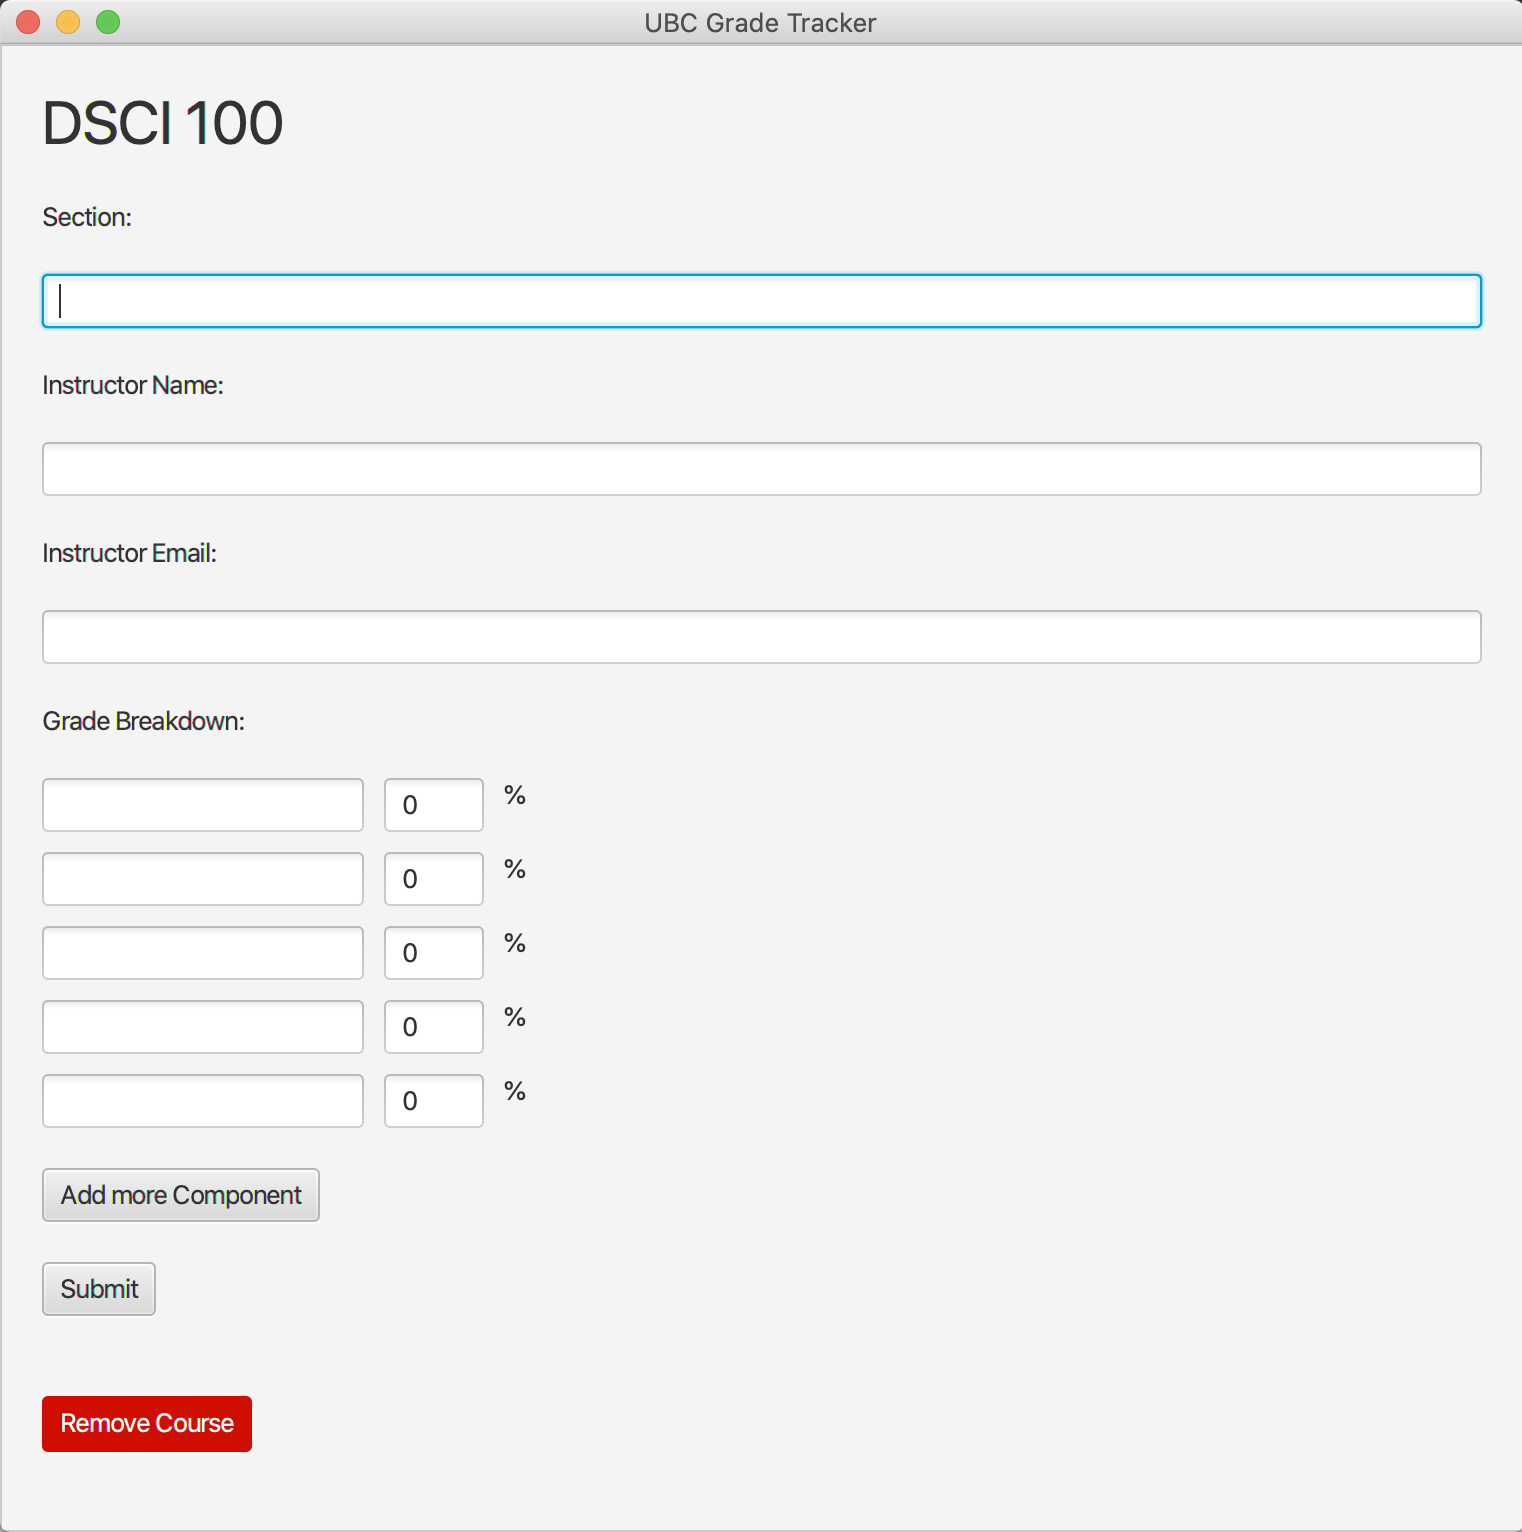
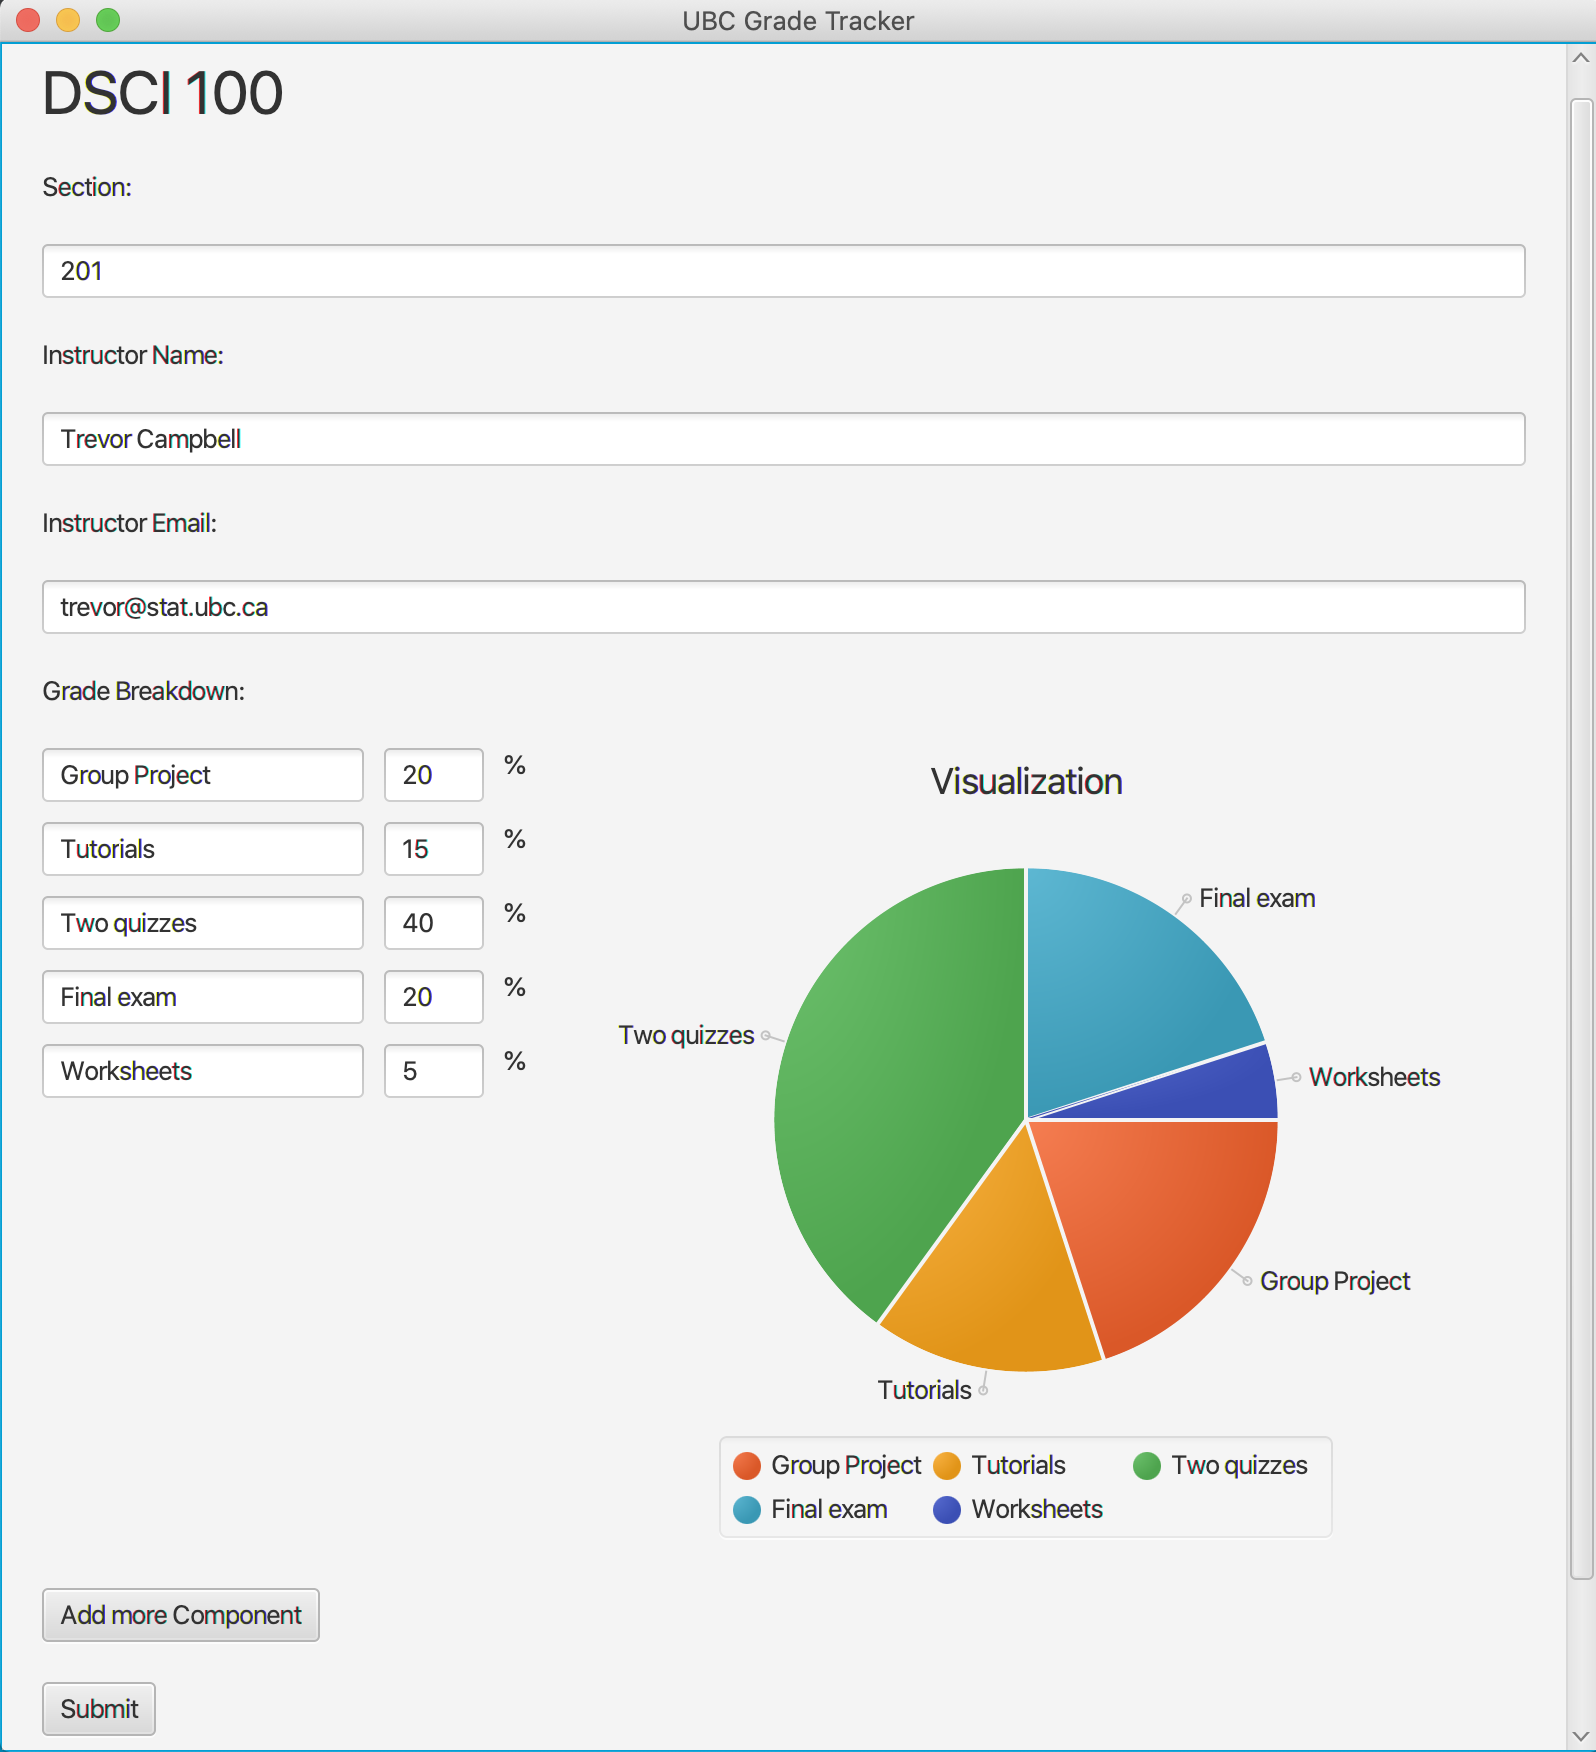
Add visualization and fix styles

diff --git a/src/main/ui/GradeTrackerUI.java b/src/main/ui/GradeTrackerUI.java
@@ -4,8 +4,10 @@ import javafx.collections.FXCollections;
 import javafx.collections.ObservableList;
 import javafx.geometry.Insets;
 import javafx.geometry.Pos;
+import javafx.geometry.Side;
 import javafx.scene.Node;
 import javafx.scene.Scene;
+import javafx.scene.chart.PieChart;
 import javafx.scene.control.*;
 import javafx.scene.control.cell.PropertyValueFactory;
 import javafx.scene.layout.*;
@@ -79,10 +81,10 @@ public class GradeTrackerUI {
     private void init(Scene scene) {
         primaryStage.setScene(scene);
         primaryStage.setTitle(APP_NAME);
-        primaryStage.setMinWidth(700);
-        primaryStage.setMinHeight(500);
-        primaryStage.setWidth(700);
-        primaryStage.setHeight(500);
+        primaryStage.setMinWidth(800);
+        primaryStage.setMinHeight(700);
+        primaryStage.setWidth(800);
+        primaryStage.setHeight(700);
         primaryStage.show();
     }
 
@@ -114,7 +116,7 @@ public class GradeTrackerUI {
         Button toSessionSceneButton = createInfoSubmitButton(nextScene);
 
         vbox.getChildren().addAll(nameBox, studentIdBox, csIdBox, emailBox, phoneBox, gpaBox, toSessionSceneButton);
-        vbox.setSpacing(20);
+        vbox.setSpacing(40);
         vbox.setPadding(new Insets(20));
 
         return new Scene(vbox);
@@ -126,6 +128,7 @@ public class GradeTrackerUI {
         VBox.setVgrow(list, Priority.ALWAYS);
 
         Label addCourseLabel = new Label("Courses: ");
+        addCourseLabel.setFont(new Font(25));
         courseTextFieldContainer = createTextFieldsContainer();
 
         Button addCourseButton = createAddCourseButton();
@@ -141,7 +144,7 @@ public class GradeTrackerUI {
                 buttonContainer
         );
 
-        vbox.setSpacing(20);
+        vbox.setSpacing(30);
         vbox.setPadding(new Insets(20));
 
         ScrollPane scrollPane = new ScrollPane(vbox);
@@ -171,13 +174,12 @@ public class GradeTrackerUI {
         Button addComponentButton = createCourseInfoAddButton();
         Button removeCourseButton = createRemoveCourseButton(course);
 
+        HBox hbox = new HBox(courseComponentContainer, createPieChart(course));
         VBox vbox = new VBox();
         vbox.getChildren().addAll(
                 courseLabel, sectionLabel, sectionInput, instructorNameLabel,
                 instructorNameInput, instructorEmailLabel, instructorEmailInput, gradeBreakdownLabel,
-                courseComponentContainer, addComponentButton, toDashboardButton,
-                EMPTY_BOX, removeCourseButton
-                // Add an empty space between the remove button with the rest
+                hbox, addComponentButton, toDashboardButton, EMPTY_BOX, removeCourseButton
         );
         vbox.setSpacing(20);
         vbox.setPadding(new Insets(20));
@@ -421,9 +423,9 @@ public class GradeTrackerUI {
         courseComponentContainer = new VBox();
         courseComponentContainer.setSpacing(10);
 
-        for (CourseComponent cp : course.getComponents()) {
-            TextField componentInput = new TextField(cp.getName());
-            TextField percentageInput = new TextField(cp.getPercentage() + "");
+        for (Map.Entry<String, Integer> component : course.getComponents().entrySet()) {
+            TextField componentInput = new TextField(component.getKey());
+            TextField percentageInput = new TextField(component.getValue().toString());
             percentageInput.setPrefWidth(50);
             HBox hbox = new HBox(componentInput, percentageInput, new Label("%"));
             hbox.setSpacing(10);
@@ -479,8 +481,27 @@ public class GradeTrackerUI {
         return toDashboardButton;
     }
 
+    private AnchorPane createPieChart(Course course) {
+        ObservableList<PieChart.Data> pieChartData = FXCollections.observableArrayList();
+        for (Map.Entry<String, Integer> component : course.getComponents().entrySet()) {
+            if (!component.getKey().isEmpty() && component.getValue() != 0) {
+                pieChartData.add(new PieChart.Data(component.getKey(), component.getValue()));
+            }
+        }
+//        pieChartData.sorted();
+        PieChart chart = new PieChart(pieChartData);
+        chart.setTitle("Visualization");
+        chart.setLabelLineLength(10);
+        chart.setLegendSide(Side.BOTTOM);
+
+        AnchorPane anchor = new AnchorPane();
+        anchor.getChildren().add(pieChartData.size() > 0 ? chart : EMPTY_BOX);
+
+        return anchor;
+    }
+
     private void iterateCourseComponents(Course course) {
-        Set<CourseComponent> components = new HashSet<>();
+        HashMap<String, Integer> components = new HashMap<>();
         for (Node node1 : courseComponentContainer.getChildren()) {
             HBox container = (HBox) node1;
             String component = "";
@@ -497,7 +518,7 @@ public class GradeTrackerUI {
             }
 
             if (!component.isEmpty() && percentage != 0) {
-                components.add(new CourseComponent(component, percentage));
+                components.put(component, percentage);
                 course.setComponents(components);
             }
         }
@@ -522,11 +543,11 @@ public class GradeTrackerUI {
         }
     }
 
-    private static Set<CourseComponent> initEmptyList() {
-        Set<CourseComponent> set = new HashSet<>();
-        for (int i = 0; i < 5; i++) {
-            set.add(new CourseComponent("", 0));
+    private static HashMap<String, Integer> initEmptyList() {
+        HashMap<String, Integer> map = new HashMap<>();
+        for (int i = 1; i <= 5; i++) {
+            map.put("Example #" + i, 20);
         }
-        return set;
+        return map;
     }
 }

diff --git a/src/main/model/Course.java b/src/main/model/Course.java
@@ -1,6 +1,7 @@
 package model;
 
 import java.io.Serializable;
+import java.util.HashMap;
 import java.util.HashSet;
 import java.util.Objects;
 import java.util.Set;
@@ -12,13 +13,13 @@ public class Course implements Serializable {
     private String name;
     private String section;
     private Instructor instructor;
-    private Set<CourseComponent> components;
+    private HashMap<String, Integer> components;
     private Session session;
     private String term;
 
     public Course(String name, String section,
                   Instructor instructor,
-                  Set<CourseComponent> components) {
+                  HashMap<String, Integer> components) {
         this.name = name;
         this.section = section;
         this.instructor = instructor;
@@ -26,20 +27,20 @@ public class Course implements Serializable {
     }
 
     public Course(String name, String section) {
-        this(name, section, new Instructor(), new HashSet<>());
+        this(name, section, new Instructor(), new HashMap<>());
     }
 
-    public Course(String name, Set<CourseComponent> components, String term, Session session) {
+    public Course(String name, HashMap<String, Integer> components, String term, Session session) {
         this(name, "", new Instructor(), components);
         this.term = term;
         this.session = session;
     }
 
-    public void setComponents(Set<CourseComponent> components) {
+    public void setComponents(HashMap<String, Integer> components) {
         this.components = components;
     }
 
-    public Set<CourseComponent> getComponents() {
+    public HashMap<String, Integer> getComponents() {
         return components;
     }
 

diff --git a/src/test/model/CourseTest.java b/src/test/model/CourseTest.java
@@ -4,8 +4,6 @@ import org.junit.jupiter.api.BeforeEach;
 import org.junit.jupiter.api.Test;
 
 import java.util.HashMap;
-import java.util.HashSet;
-import java.util.Set;
 
 import static org.junit.jupiter.api.Assertions.*;
 
@@ -15,7 +13,7 @@ import static org.junit.jupiter.api.Assertions.*;
 public class CourseTest {
 
     private Course course;
-    private Set<CourseComponent> courseComponents;
+    private HashMap<String, Integer> courseComponents;
     private String term;
     private Session session;
 
@@ -27,10 +25,10 @@ public class CourseTest {
 
         session = new Session(2013, SessionType.WINTER_SESSION, courses);
 
-        courseComponents = new HashSet<>();
-        courseComponents.add(new CourseComponent("Homework", 20));
-        courseComponents.add(new CourseComponent("Quizzes", 30));
-        courseComponents.add(new CourseComponent("Exams", 50));
+        courseComponents = new HashMap<>();
+        courseComponents.put("Homework", 20);
+        courseComponents.put("Quizzes", 30);
+        courseComponents.put("Exams", 50);
     }
 
     @Test
@@ -56,7 +54,7 @@ public class CourseTest {
         assertEquals("CPSC 210", course.getName());
         assertEquals("L13", course.getSection());
         assertEquals(new Instructor(), course.getInstructor());
-        assertEquals(new HashSet<>(), course.getComponents());
+        assertEquals(new HashMap<>(), course.getComponents());
     }
 
     @Test

diff --git a/README.md b/README.md
@@ -67,6 +67,8 @@ such as course's section, instructor, components, etc.
     - To edit course: fill out the fields and press the **Submit** button.
     - To remove course: press the **Remove course** red button at the very
 end of the screen.  
+    *Note*: the user will not see course's components visualization's update until submit
+    and come back later.
 
     ![alt text](image/CourseInfoScene.png "Info Screen")
 <br/><br/>
